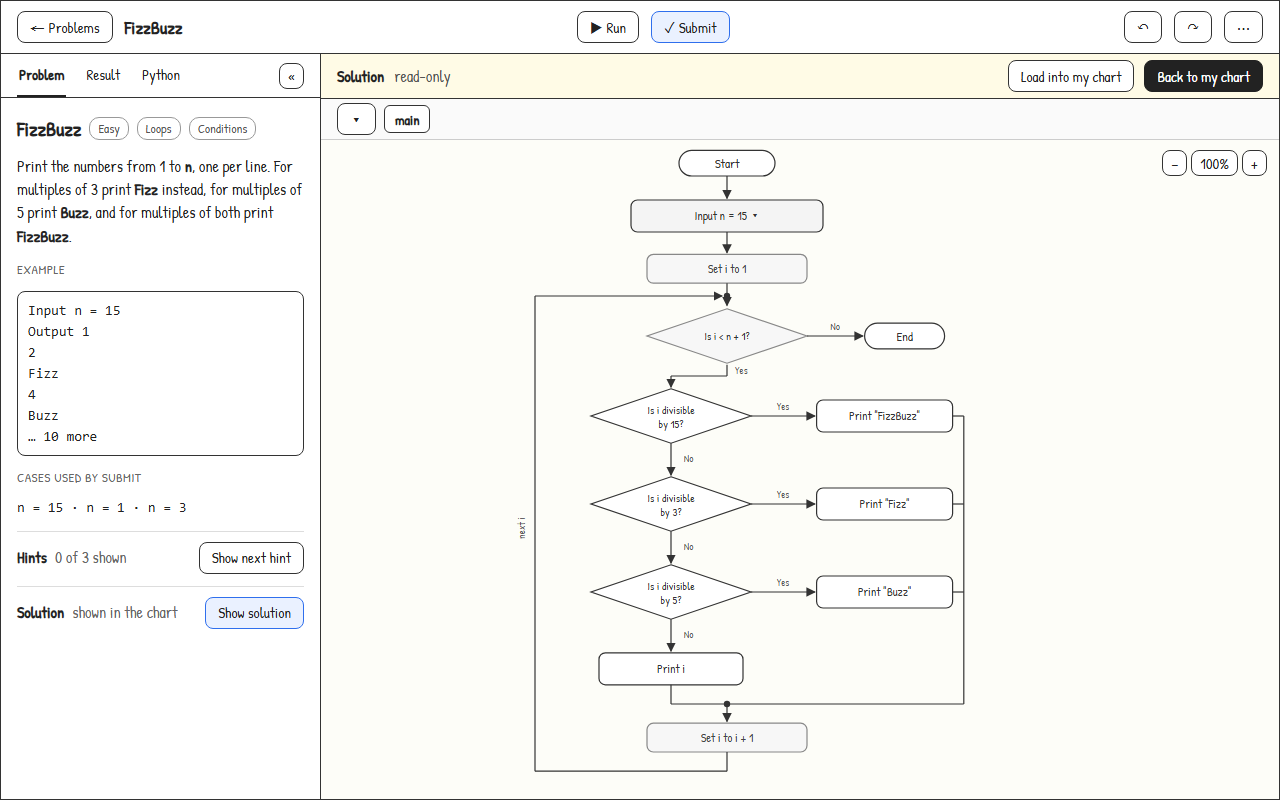
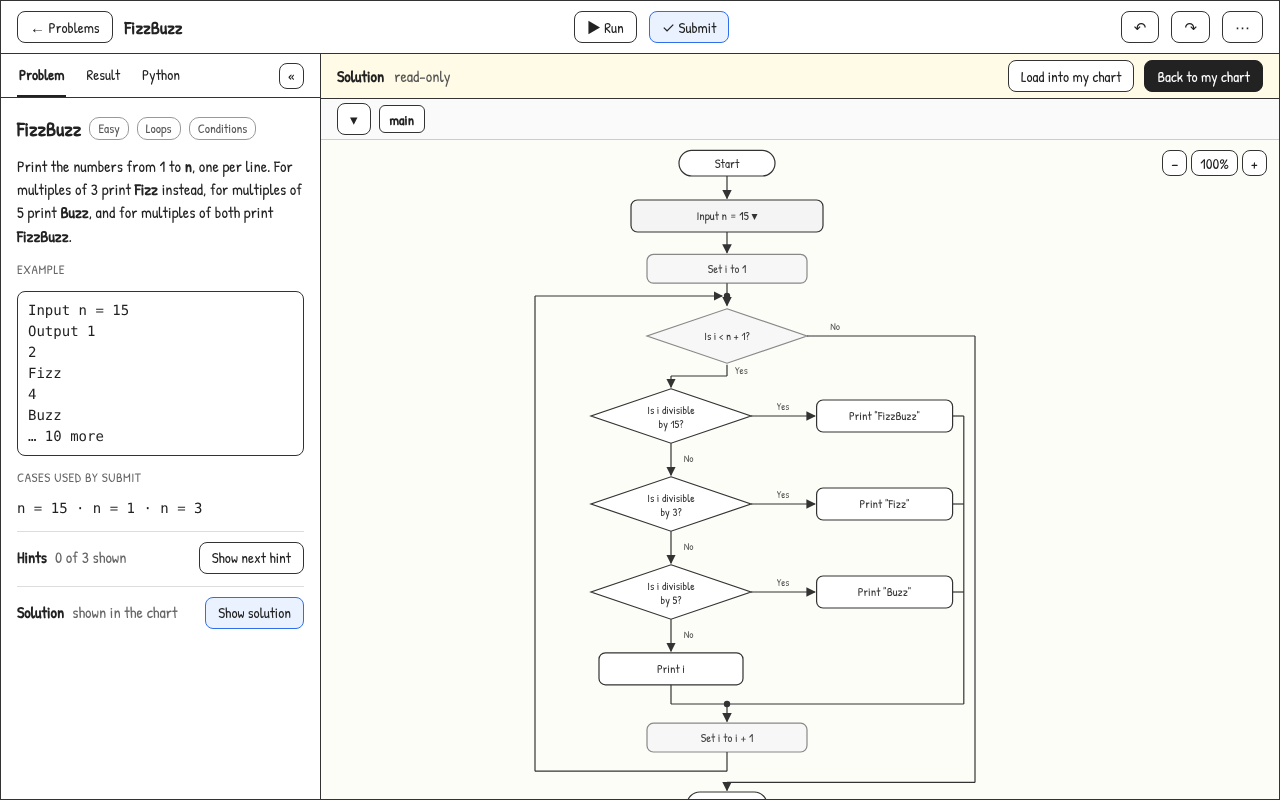
docs: draw the screens built without a board
Five boards join the canvas; the loop's exit leads to End below the loop and the back edge carries no label, as the chart draws them.

diff --git a/docs/design/README.md b/docs/design/README.md
@@ -8,24 +8,29 @@ issue labelled `decision`.
 
 ## Canvas "AlgoFlow Screens"
 
-Thirteen boards of 1280 × 800. Each file has the name of its board on the
+Eighteen boards of 1280 × 800. Each file has the name of its board on the
 canvas.
 
-| File              | Board title on the canvas                              | Spec                     |
-| ----------------- | ------------------------------------------------------ | ------------------------ |
-| `Main.png`        | 1 Problems: one section per plan                       | U-02, U-10..U-14         |
-| `BuildEmpty.png`  | 2 Build: first launch, an empty chart                  | U-03, U-21, U-34, U-90   |
-| `BuildMenu.png`   | 3 Build: the + menu lists statements only              | U-40, U-33               |
-| `BuildEdit.png`   | 4 Build: editing a block, names and values             | U-41, U-50..U-52         |
-| `Run.png`         | 5 Run: the moment on the chart, the state in Result    | U-60..U-63, U-23, R-19   |
-| `Wrong.png`       | 6 Submit: Wrong Answer, and a way to the cause         | U-81, U-82               |
-| `Accepted.png`    | 7 Submit: Accepted, with what comes next               | U-83                     |
-| `Solution.png`    | 8 Solution: read-only in the chart area                | U-22                     |
-| `FunctionRun.png` | 9 Run inside functions: the path bar is the call stack | U-68                     |
-| `Module.png`      | 10 Module page: run one function, keep cases, Test     | D-06, D-08, D-19, D-20   |
-| `PythonChart.png` | 11 Python tab: a line and its block                    | U-25                     |
-| `PythonFiles.png` | 12 Python tab: a program that uses a module            | U-25, E-09               |
-| `Playground.png`  | 13 Playground: many programs, the last edited first    | U-15                     |
+| File                    | Board title on the canvas                              | Spec                   |
+| ----------------------- | ------------------------------------------------------ | ---------------------- |
+| `Main.png`              | 1 Problems: one section per plan                       | U-02, U-10..U-14       |
+| `BuildEmpty.png`        | 2 Build: first launch, an empty chart                  | U-03, U-21, U-34, U-90 |
+| `BuildMenu.png`         | 3 Build: the + menu lists statements only              | U-40, U-33             |
+| `BuildEdit.png`         | 4 Build: editing a block, names and values             | U-41, U-50..U-52       |
+| `Run.png`               | 5 Run: the moment on the chart, the state in Result    | U-60..U-63, U-23, R-19 |
+| `Wrong.png`             | 6 Submit: Wrong Answer, and a way to the cause         | U-81, U-82             |
+| `Accepted.png`          | 7 Submit: Accepted, with what comes next               | U-83                   |
+| `Solution.png`          | 8 Solution: read-only in the chart area                | U-22                   |
+| `FunctionRun.png`       | 9 Run inside functions: the path bar is the call stack | U-68                   |
+| `Module.png`            | 10 Module page: run one function, keep cases, Test     | D-06, D-08, D-19, D-20 |
+| `PythonChart.png`       | 11 Python tab: a line and its block                    | U-25                   |
+| `PythonFiles.png`       | 12 Python tab: a program that uses a module            | U-25, E-09             |
+| `Playground.png`        | 13 Playground: many programs, the last edited first    | U-15                   |
+| `InputMenu.png`         | 14 Build: the Input node lists the problem's cases     | U-32                   |
+| `Diagnostics.png`       | 15 Build: a red dot, its message, and its fix          | U-37                   |
+| `ChipMenu.png`          | 16 Build: a chip's menu, Unwrap and Delete             | U-54                   |
+| `PlaygroundProgram.png` | 17 Playground program: a title, Run, and Export        | U-01                   |
+| `MenuProgram.png`       | 18 Build: the + menu lists the program's own functions | U-40                   |
 
 ## Where the spec deviates from the boards
 
@@ -36,8 +41,6 @@ canvas.
   drafts derived from D-16, not emitted code.
 - `Main.png` names the first problem `Hello`; its challenge file is
   `tutorial`, and the title is the one in that file.
-- `BuildEmpty.png` shows an earlier statement of `tutorial`, joining a text
-  to `name` with `+`; the statement is the one in its challenge file.
 - A diamond's text is the question of U-33 (`Is i divisible by 15?`),
   regardless of the text on a board.
 - The boards use a hand-drawn typeface to mark them as drafts; the
@@ -52,7 +55,7 @@ exported again in the pull request that changes the spec it affects.
 
 | Canvas             | Holds                                         |
 | ------------------ | --------------------------------------------- |
-| [AlgoFlow Screens](https://claude.ai/artifact/SD2jKu4HfkPTh4CoeS7Tpe) | the thirteen boards above |
+| [AlgoFlow Screens](https://claude.ai/artifact/SD2jKu4HfkPTh4CoeS7Tpe) | the eighteen boards above |
 | [AlgoFlow Redesign](https://claude.ai/artifact/D91141RiyMCW4XLsyJk8E5) | the flowchart and loop-notation studies; no exported board |
 
 The canvases open only for their owner and the people it is shared with.
